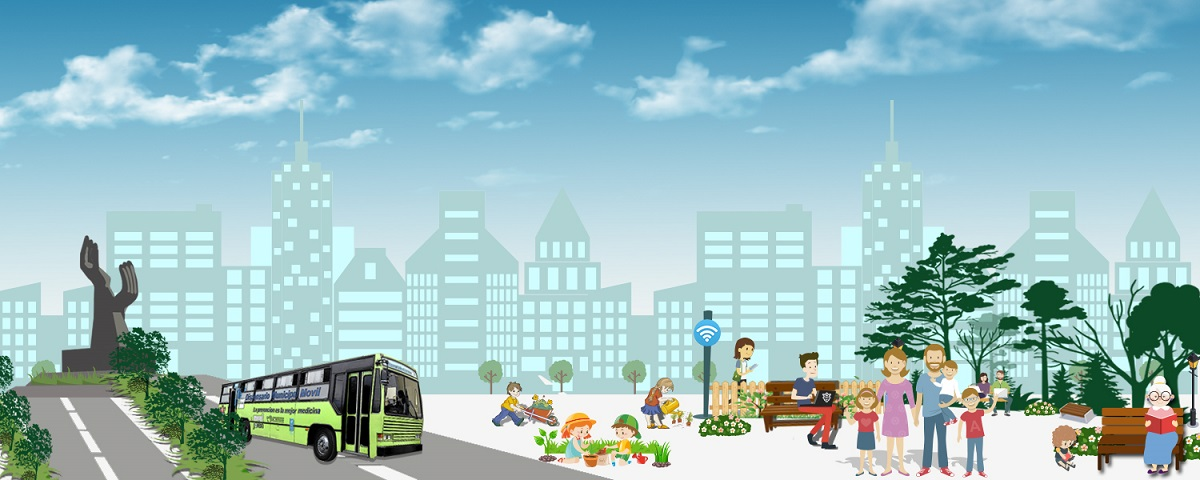
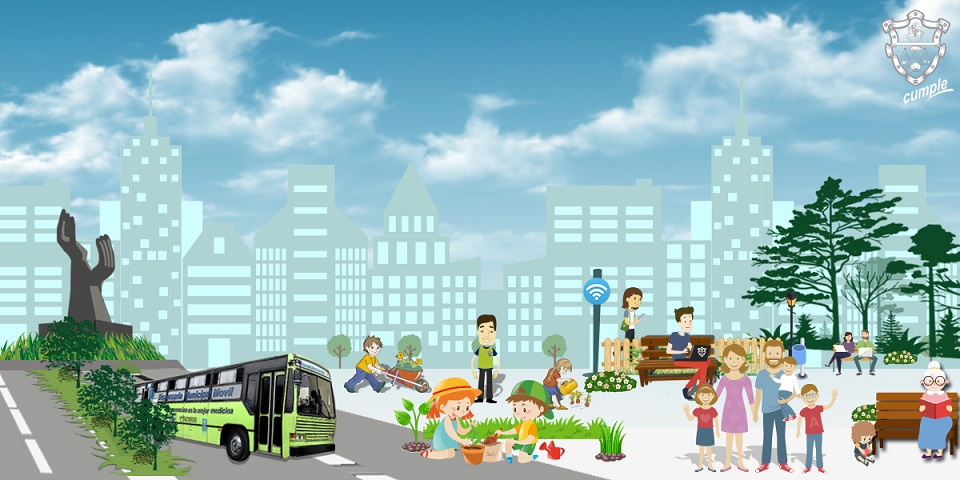
arregla la pantalla de bienvenida

diff --git a/resources/views/welcome.blade.php b/resources/views/welcome.blade.php
@@ -30,11 +30,11 @@
             padding-top: 8rem;
             padding-bottom: 8rem;
             background: -webkit-gradient(linear, left top, right top, from(rgba(255, 255, 255, .1)), to(rgba(255, 255, 255, .1))),
-            url('{{ asset("/images/arte.jpg") }}');
+            url('{{ asset("/images/bg.jpg") }}');
             background: linear-gradient(90deg,
             rgba(255, 255, 255, .1) 0,
             rgba(255, 255, 255, .1) 100%),
-            url('{{ asset("/images/arte.jpg") }}');
+            url('{{ asset("/images/bg.jpg") }}');
             background-position: center center;
             background-repeat: no-repeat;
             background-size: cover;
